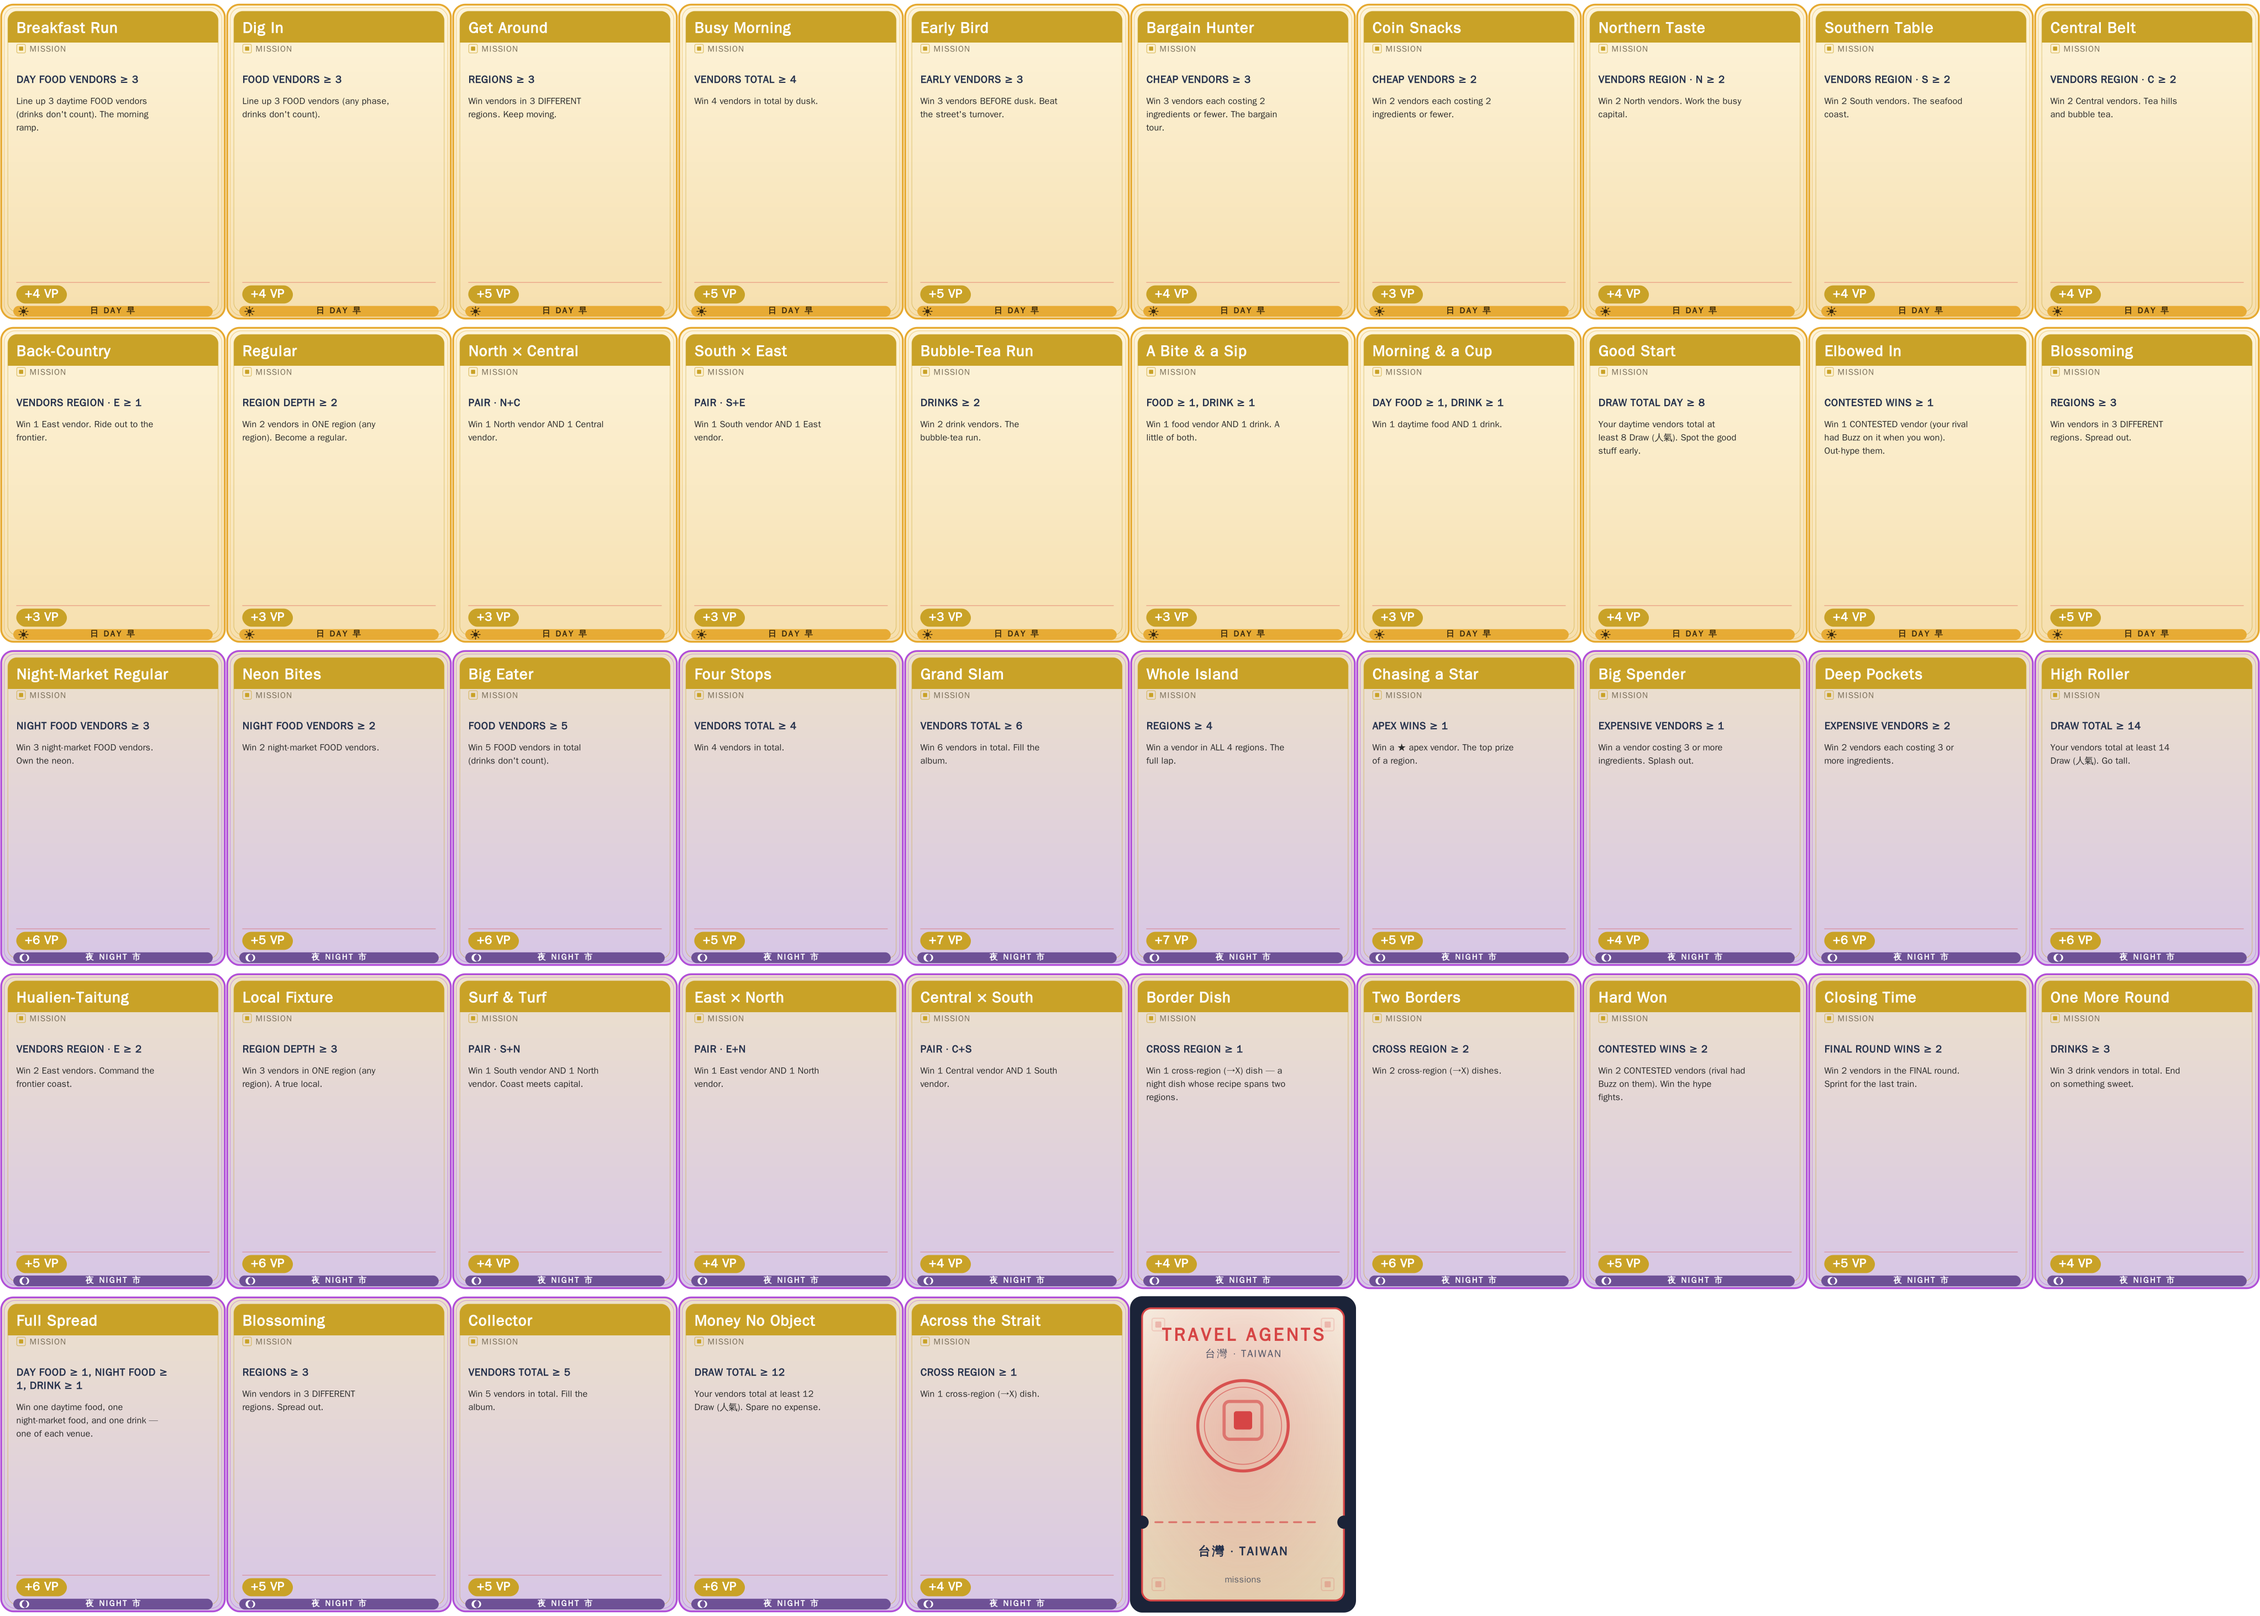
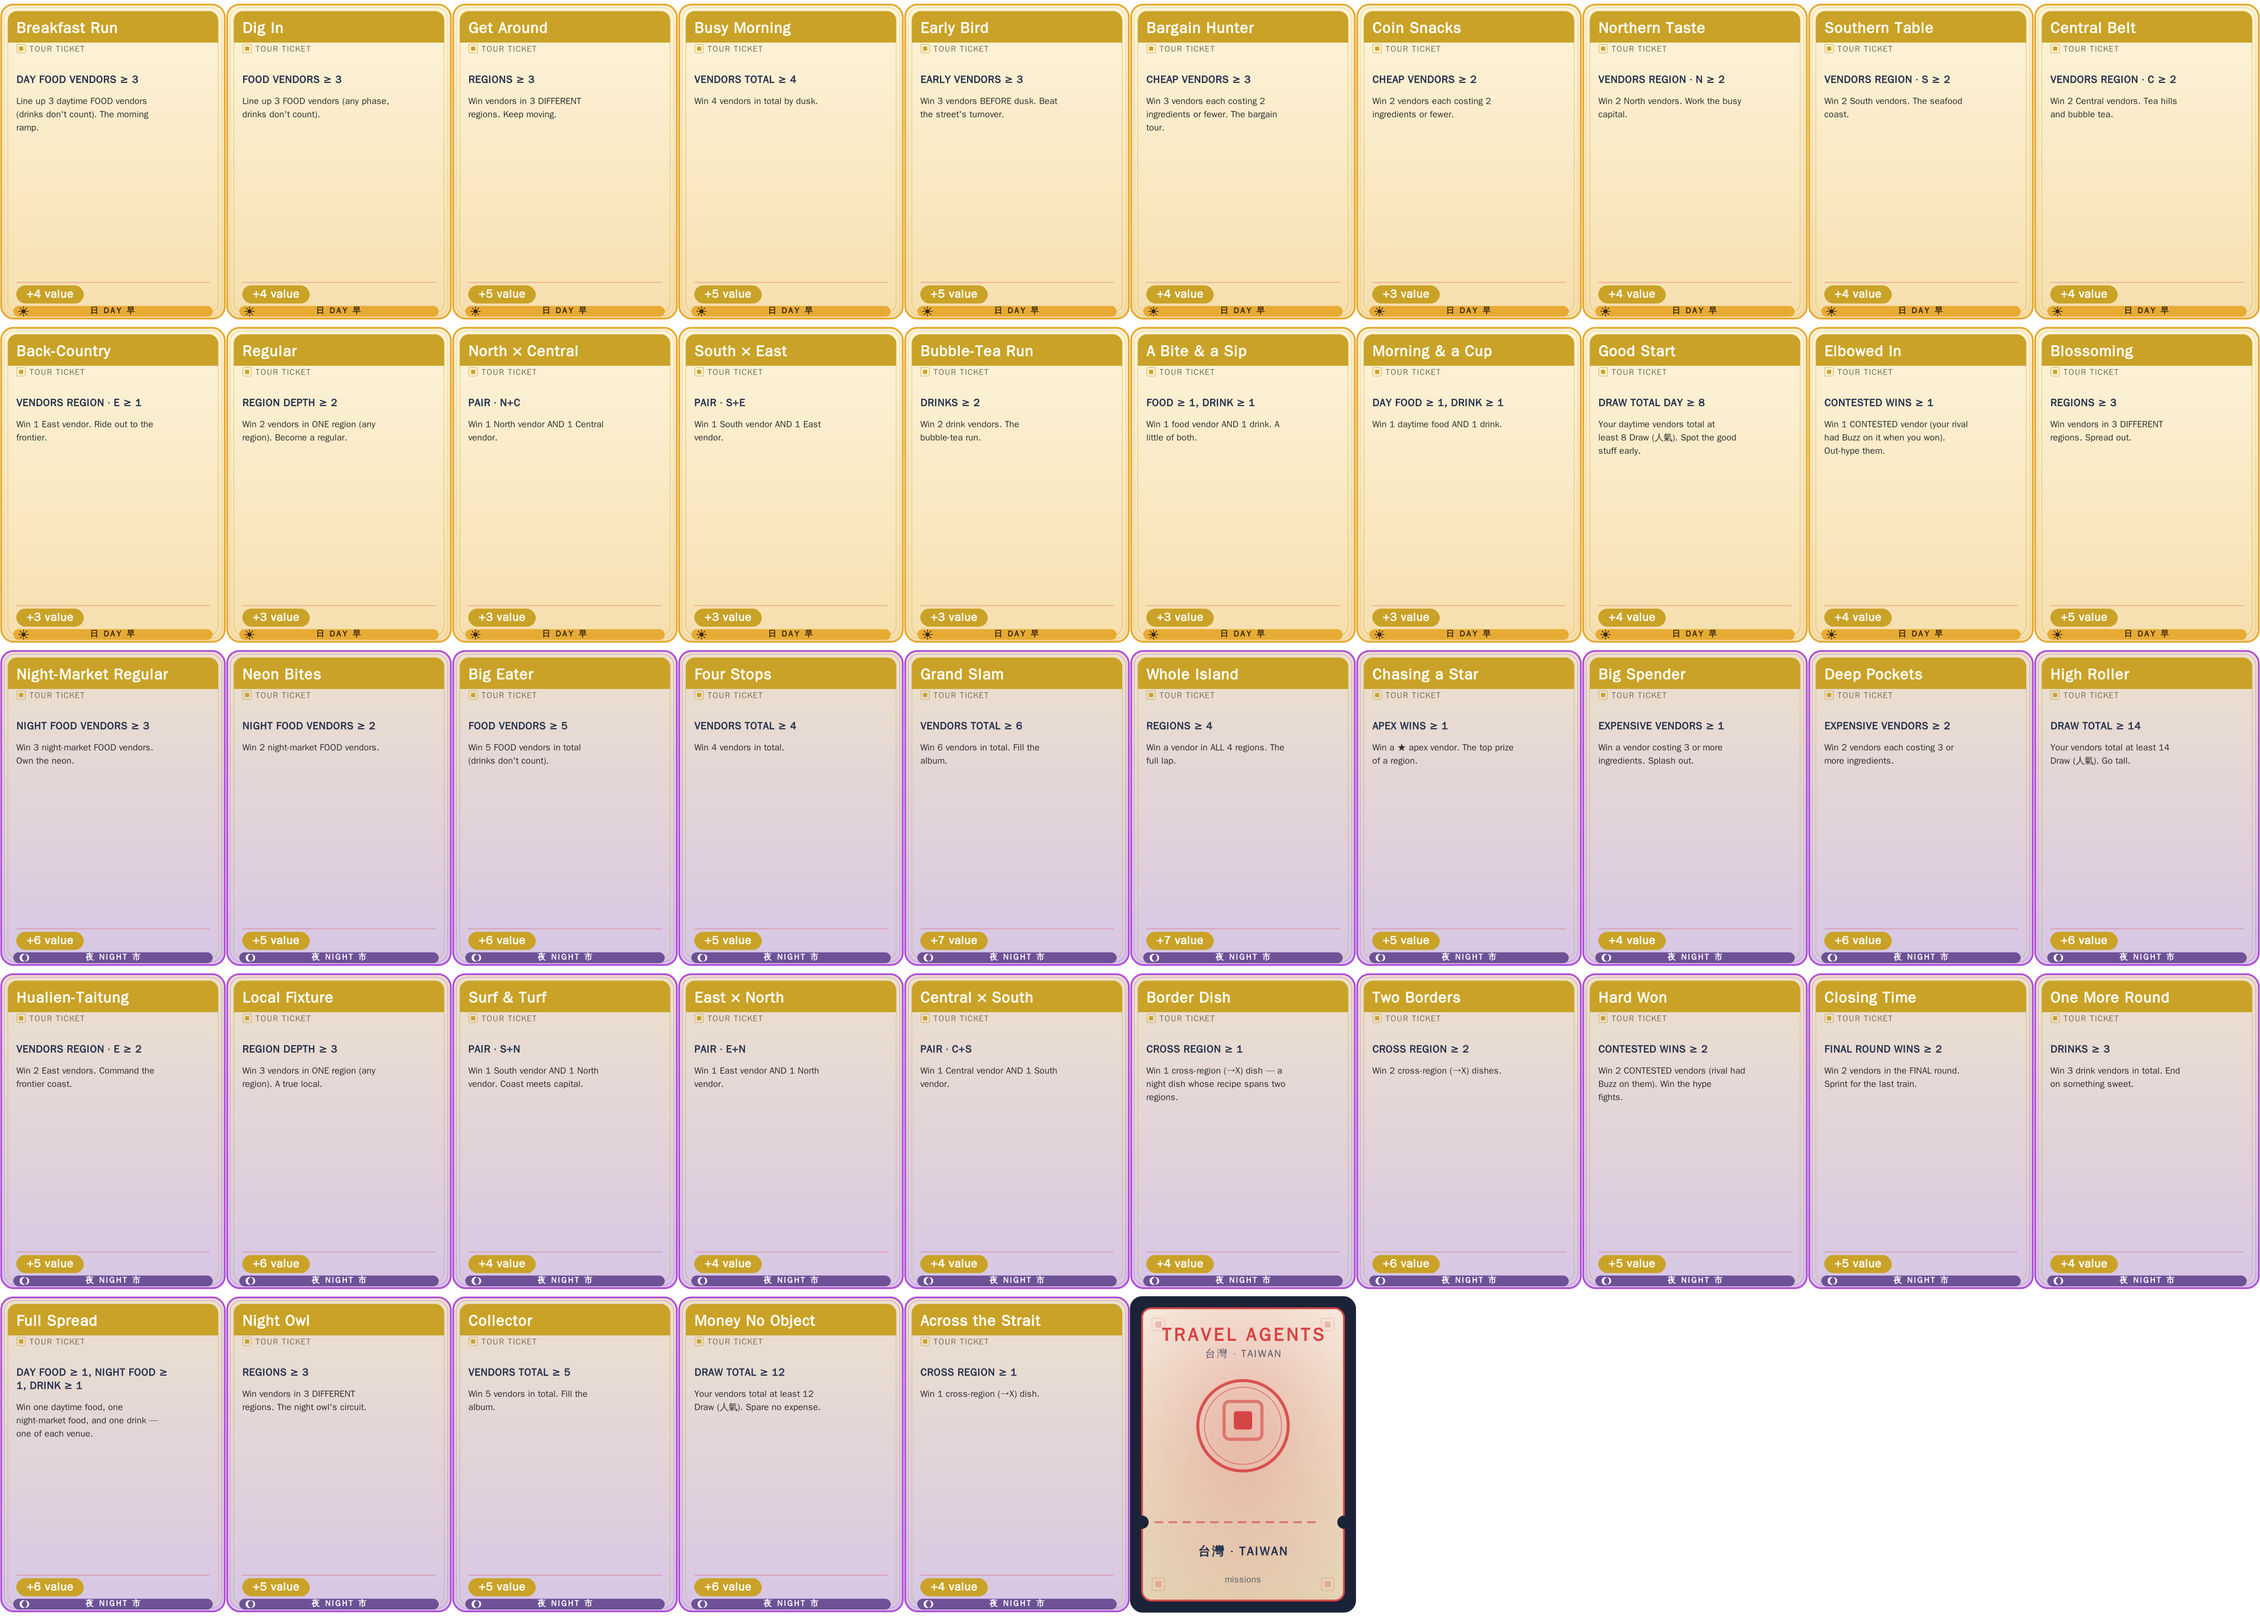
Canon-align Tour Ticket faces: "TOUR TICKET"/"+N value" + de-dup a name
Why: the tickets are the game's SOLE scoring component, so their faces were
the last surfaces still using retired terms — the type label read "MISSION"
and the reward chip read "+N VP", while the board, aid, and win/lose-pile
rules all say "Tour Ticket" and "value" (成團 → +value). CD chose full canon
alignment. In build_cards.py both changes are keyed on the CSV type "mission"
(Travel Agents only; Beacon's assignments still print their own type + VP),
and the CSV `type` stays "mission" so sim/logic are untouched — only the
printed label is remapped. Also renamed the duplicate night ticket
"Blossoming" → "Night Owl" (夜貓子): day + night both named "Blossoming"
(same objective) read as a misprint. Flavour-name only; target/value/phase
unchanged.

Claude-Session: https://claude.ai/code/session_01BYsTkbsM578kobte3YG9zo

diff --git a/tools/cards/build_cards.py b/tools/cards/build_cards.py
@@ -560,13 +560,15 @@ def render_card_svg(row: dict, theme: dict, glyph_map: dict | None = None) -> st
         except ValueError:
             vn = 0
         if is_objective:
-            # +N VP footer chip (bottom-left), no top index, no pip row
-            chw, chh = 168, 60
+            # value footer chip (bottom-left), no top index, no pip row. Travel Agents' Tour Tickets score
+            # in the game's own "value" language (成團 win pile → +value); other games keep the generic VP.
+            bonus_word = "value" if ctype.lower() == "mission" else "VP"
+            chw, chh = (224 if bonus_word == "value" else 168), 60
             cx0, cy0 = MARGIN, CARD_H - MARGIN - 60
             value_row = (
                 f'<rect x="{cx0}" y="{cy0}" width="{chw}" height="{chh}" rx="{chh/2}" fill="{scol}"/>'
-                f'<text x="{cx0 + chw/2}" y="{cy0 + chh*0.68}" font-size="40" fill="#ffffff" '
-                f'text-anchor="middle" font-family="{tfont}" font-weight="bold">+{esc(value)} VP</text>')
+                f'<text x="{cx0 + chw/2}" y="{cy0 + chh*0.68}" font-size="38" fill="#ffffff" '
+                f'text-anchor="middle" font-family="{tfont}" font-weight="bold">+{esc(value)} {bonus_word}</text>')
         else:
             # top-right index — only when no cost badge and a single-line title share the corner cleanly
             if not cost and len(title_lines) == 1:
@@ -586,10 +588,13 @@ def render_card_svg(row: dict, theme: dict, glyph_map: dict | None = None) -> st
     # --- type line with emblem (rides just below the header band) ---
     type_emblem_cy = header_end + 20
     type_text_y = header_end + 30
+    # Travel Agents renamed its objective spine "Tour Ticket" (canon); the CSV type stays "mission" so
+    # sim/logic are unchanged — only the printed label is remapped. Other games print their type verbatim.
+    type_label = "TOUR TICKET" if ctype.lower() == "mission" else ctype.upper()
     type_block = (
         emblem_svg(suit['emblem'], MARGIN + 16, type_emblem_cy, 15, scol) +
         f'<text x="{MARGIN+44}" y="{type_text_y}" font-size="{TYPE_SIZE}" fill="{muted}" '
-        f'font-family="{tfont}" font-style="italic" letter-spacing="2">{esc(ctype).upper()}</text>')
+        f'font-family="{tfont}" font-style="italic" letter-spacing="2">{esc(type_label)}</text>')
 
     # --- recipe chip-row (dishes only): one disc per ingredient = region colour + 繁體 glyph, matching
     # the tokens exactly. The bridge from a token in hand to the dish that needs it. Needs a `recipe`
